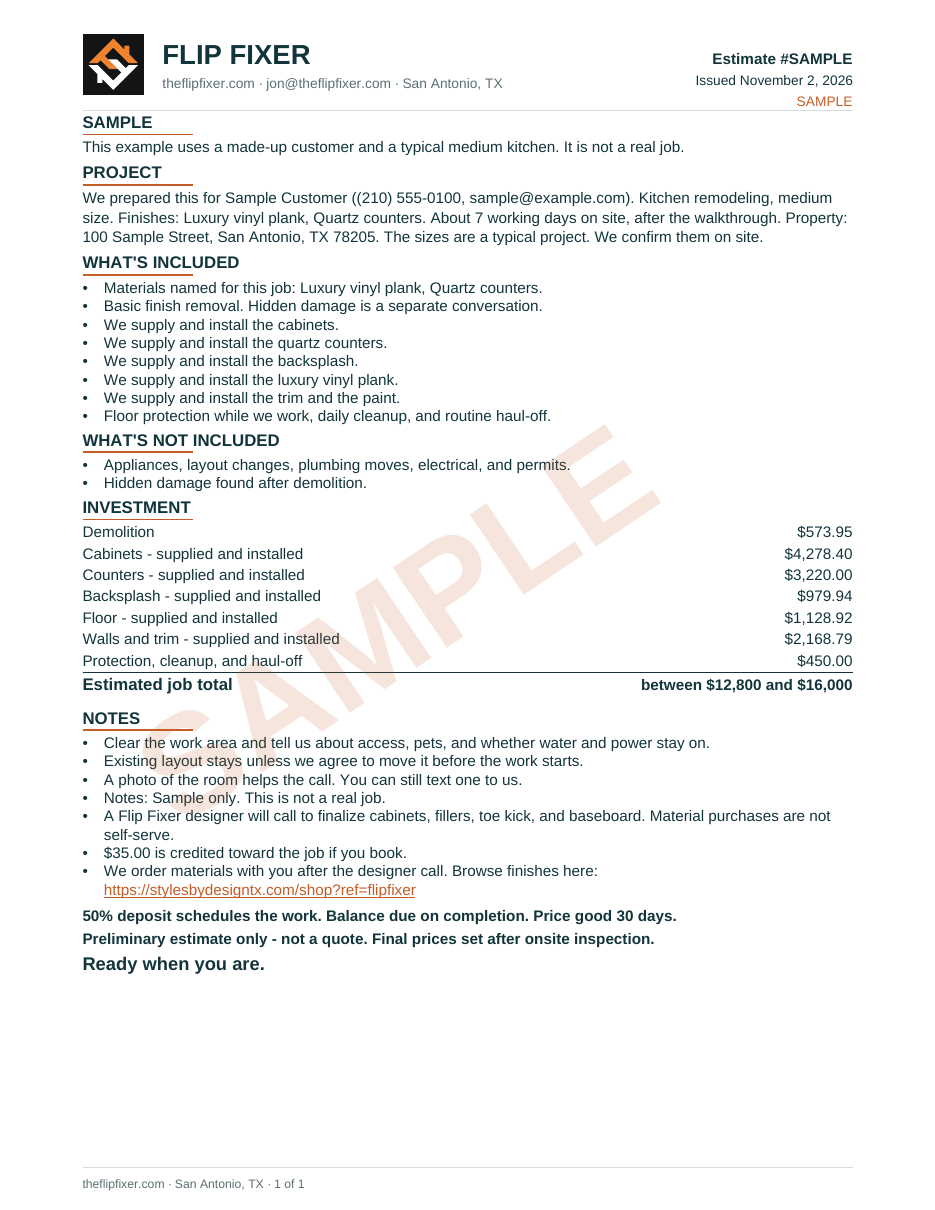
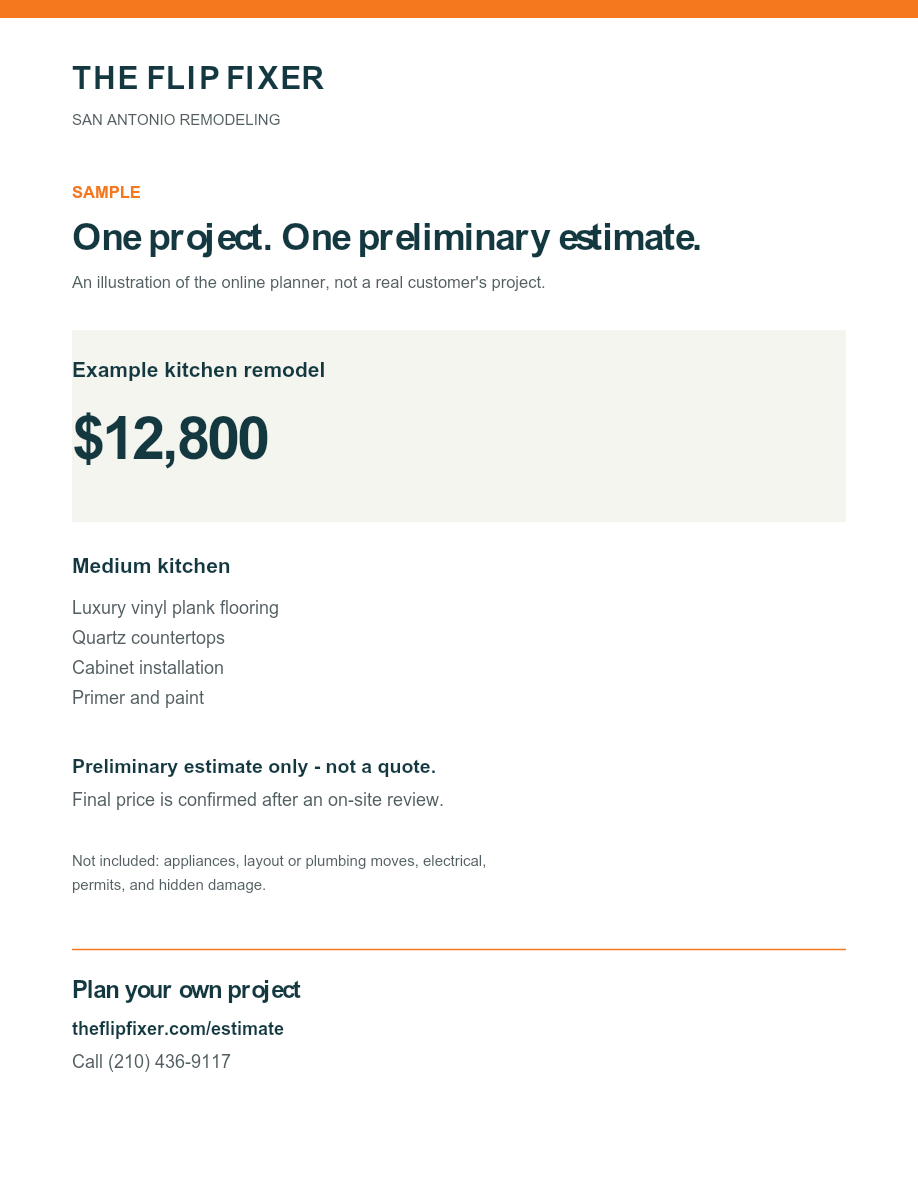
Replace public sample with one preliminary price and stabilize review checks

Changed region(s): [[0.0, 0.0, 1.0, 0.9032], [0.0915, 0.9655, 0.2745, 0.9966]]

diff --git a/scripts/write-sample-estimate.ts b/scripts/write-sample-estimate.ts
@@ -1,33 +1,58 @@
-/**
- * Writes the public sample job estimate from the current PDF renderer.
- * Run: node --experimental-strip-types scripts/write-sample-estimate.ts
- */
+/** Public one-price illustration. Never use the internal itemized PDF renderer here. */
 import { writeFileSync } from "node:fs";
-import { buildLaborDocument } from "../src/lib/labor-estimate.ts";
-import { renderLaborEstimatePdf } from "../src/lib/labor-estimate-pdf.ts";
+import { resolve } from "node:path";
+import { pathToFileURL } from "node:url";
+import { PDFDocument, StandardFonts, rgb } from "pdf-lib";
+import { publicEstimateResult } from "../src/lib/public-estimate-result.server.ts";
 import { DEFAULT_PROJECT_INPUTS } from "../src/lib/public-estimate-options.ts";
+import { formatPublicEstimate, PRELIMINARY_ESTIMATE_WORDING } from "../src/lib/public-estimate-display.ts";
 
-const document = buildLaborDocument({
-  v: 1,
-  project: { ...DEFAULT_PROJECT_INPUTS },
-  address: "100 Sample Street, San Antonio, TX 78205",
-  note: "Sample only. This is not a real job.",
-  occupancy: "",
-  timing: "",
-  decision: "",
-});
-
-const bytes = await renderLaborEstimatePdf({
-  document,
-  name: "Sample Customer",
-  phone: "(210) 555-0100",
-  email: "sample@example.com",
-  feeLabel: "$35.00",
-  catalogUrl: "https://stylesbydesigntx.com/shop?ref=flipfixer",
-  submissionId: "sample-estimate",
-  issued: new Date("2026-11-02T12:00:00Z"),
-  sample: true,
-});
-
-writeFileSync("public/sample-estimate.pdf", bytes);
-console.log(`wrote public/sample-estimate.pdf (${bytes.byteLength} bytes)`);
+export async function createSampleEstimatePdf() {
+  const result=publicEstimateResult({...DEFAULT_PROJECT_INPUTS});
+  if(!result)throw new Error("Sample estimate unavailable");
+  const pdf=await PDFDocument.create();
+  pdf.setTitle("Sample preliminary estimate");
+  pdf.setSubject("Illustrative kitchen project; not a real customer's estimate");
+  const sans=await pdf.embedFont(StandardFonts.Helvetica), bold=await pdf.embedFont(StandardFonts.HelveticaBold), display=await pdf.embedFont(StandardFonts.TimesRomanBold);
+  const page=pdf.addPage([612,792]);
+  const ink=rgb(0.08,0.22,0.25), muted=rgb(0.32,0.37,0.38), accent=rgb(0.96,0.47,0.12), pale=rgb(0.96,0.96,0.94);
+  const text=(value:string,y:number,size=12,font=sans,color=ink)=>page.drawText(value,{x:48,y,size,font,color});
+  page.drawRectangle({x:0,y:780,width:612,height:12,color:accent});
+  text("THE FLIP FIXER",732,21,display);
+  text("SAN ANTONIO REMODELING",709,10,sans,muted);
+  text("SAMPLE",660,11,bold,accent);
+  text("One project. One preliminary estimate.",625,25,display);
+  text("An illustration of the online planner, not a real customer's project.",600,11,sans,muted);
+  page.drawRectangle({x:48,y:444,width:516,height:128,color:pale});
+  text("Example kitchen remodel",541,14,bold);
+  text(formatPublicEstimate(result.total),486,40,display);
+  text("Medium kitchen",410,14,bold);
+  for(const [i,line] of ["Luxury vinyl plank flooring", "Quartz countertops", "Cabinet installation", "Primer and paint"].entries())text(line,383-i*20,12,sans,muted);
+  text("Preliminary estimate only - not a quote.",277,13,bold);
+  text("Final price is confirmed after an on-site review.",255,12,sans,muted);
+  // Keep the public disclaimer contract while using standard-font-safe punctuation.
+  if(!PRELIMINARY_ESTIMATE_WORDING.includes("Final price is confirmed"))throw new Error("Review sample disclaimer wording");
+  text("Not included: appliances, layout or plumbing moves, electrical,",215,10,sans,muted);
+  text("permits, and hidden damage.",199,10,sans,muted);
+  page.drawLine({start:{x:48,y:159},end:{x:564,y:159},thickness:1,color:accent});
+  text("Plan your own project",127,16,display);
+  text("theflipfixer.com/estimate",102,12,bold);
+  text("Call (210) 436-9117",80,12,sans,muted);
+  return pdf.save();
+}
+export async function writeSampleEstimate() {
+  const bytes=await createSampleEstimatePdf();
+  writeFileSync("public/sample-estimate.pdf",bytes);
+  const {getDocument}=await import("pdfjs-dist/legacy/build/pdf.mjs");
+  const {createCanvas}=await import("@napi-rs/canvas");
+  const task=getDocument({data:new Uint8Array(bytes),useSystemFonts:true,isEvalSupported:false});
+  const doc=await task.promise;
+  try {
+    const page=await doc.getPage(1),viewport=page.getViewport({scale:1.5});
+    const canvas=createCanvas(viewport.width,viewport.height);
+    await page.render({canvasContext:canvas.getContext("2d") as never,viewport,canvas:canvas as never}).promise;
+    writeFileSync("public/sample-estimate.png",canvas.toBuffer("image/png"));
+  } finally {await task.destroy();}
+  console.log("Wrote matching one-price public sample PDF and PNG.");
+}
+if(process.argv[1] && import.meta.url===pathToFileURL(resolve(process.argv[1])).href)await writeSampleEstimate();

diff --git a/docs/public-sample-review.md b/docs/public-sample-review.md
@@ -1,0 +1,9 @@
+# Public sample follow-up
+
+Based on merged security PR #68 (main cae278313e45ced9d17c96e519dbeeac24df1c47). This follow-up is not deployed.
+
+The PDF and matching PNG now illustrate one preliminary kitchen total, calculated from the same default inputs and server pricing boundary as /estimate. There are no itemized amounts, price ranges, fee credits, dates or invented customers. The generator does not use the internal itemized renderer.
+
+The flaky retry assertion explicitly waits for the Retry estimate button. The public scanner also inspects PDF metadata, rejects PDF attachments, and distinguishes ordinary HTML markup identifiers from financial markup. Safe/unsafe fixtures cover those changes. Other scanner limitations remain: raster price-sheet images and disguised spelling require human review; no OCR is performed.
+
+Publication requires review. Vercel automatic deployment is disabled for this branch.
